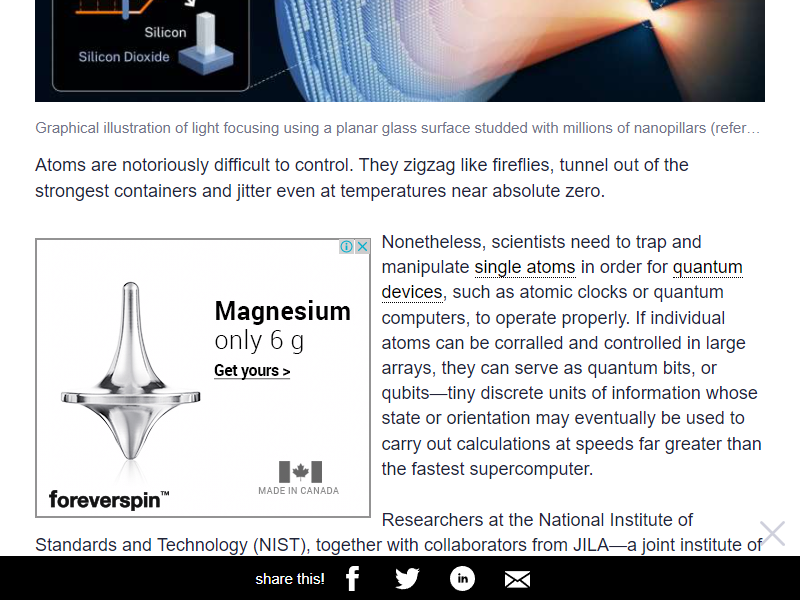
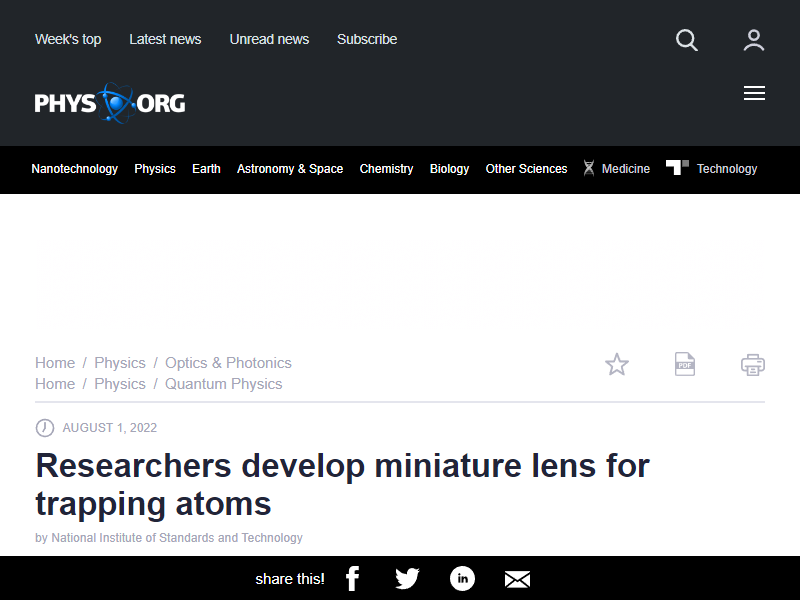
initial commit

diff --git a/src/ejercicio2.js b/src/ejercicio2.js
@@ -1,0 +1,59 @@
+"use strict";
+var __awaiter = (this && this.__awaiter) || function (thisArg, _arguments, P, generator) {
+    function adopt(value) { return value instanceof P ? value : new P(function (resolve) { resolve(value); }); }
+    return new (P || (P = Promise))(function (resolve, reject) {
+        function fulfilled(value) { try { step(generator.next(value)); } catch (e) { reject(e); } }
+        function rejected(value) { try { step(generator["throw"](value)); } catch (e) { reject(e); } }
+        function step(result) { result.done ? resolve(result.value) : adopt(result.value).then(fulfilled, rejected); }
+        step((generator = generator.apply(thisArg, _arguments || [])).next());
+    });
+};
+Object.defineProperty(exports, "__esModule", { value: true });
+const fs = require("fs");
+const puppeteer = require('puppeteer');
+const urls = ["https://phys.org/news/2022-08-miniature-lens-atoms.html&p=1"];
+const createJson = (obj) => {
+    fs.writeFile("output.json", JSON.stringify(obj, null, 2), "utf8", (error) => {
+        if (error)
+            throw error;
+        console.log("Sale todo bien");
+    });
+};
+const visitanyPage = (url) => __awaiter(void 0, void 0, void 0, function* () {
+    const browser = yield puppeteer.launch({ headless: false });
+    const page = yield browser.newPage();
+    yield page.goto("https://phys.org/news/2022-08-miniature-lens-atoms.html");
+    [];
+    const breadcrumbs = yield page.evaluate(() => {
+        var _a;
+        const result = (_a = document.querySelector('[aria-label="breadcrumb"]')) === null || _a === void 0 ? void 0 : _a.textContent;
+        return result;
+    });
+    const discos = yield page.evaluate(() => {
+        var _a, _b;
+        const result2 = [];
+        const discos = Array.from(document.querySelectorAll("ul.products-grid li.item"));
+        for (let disco of discos) {
+            const name = (_a = disco.querySelector("h5.product-name a")) === null || _a === void 0 ? void 0 : _a.textContent;
+            const price = (_b = disco.querySelector("span.price")) === null || _b === void 0 ? void 0 : _b.textContent;
+            result2.push({ name, price });
+        }
+        return result2;
+    });
+    const result = { breadcrumbs };
+    createJson(discos);
+    createJson(result);
+    const nextUrl = yield page.evaluate(() => {
+    });
+    yield browser.close();
+    return discos;
+});
+const crawlSite = () => __awaiter(void 0, void 0, void 0, function* () {
+    const result = [];
+    for (let url of urls) {
+        const discos = yield scraperPage(url);
+        result.push(...discos);
+    }
+    createJson(result);
+});
+crawlSite();

diff --git a/src/ejercicio2.ts b/src/ejercicio2.ts
@@ -1,0 +1,69 @@
+import * as fs from 'fs';
+const puppeteer = require('puppeteer');
+
+
+const urls = ["https://phys.org/news/2022-08-miniature-lens-atoms.html&p=1"];
+
+const createJson = (obj:{}): void =>{
+    fs.writeFile("output.json", JSON.stringify(obj, null, 2), "utf8", (error) => {
+        if(error) throw error;
+        console.log("Sale todo bien")
+    });
+};
+
+const visitanyPage = async (url: string): Promise<IDisco[]> => {
+    const browser = await puppeteer.launch({headless: false});
+    const page = await browser.newPage();
+    await page.goto("https://phys.org/news/2022-08-miniature-lens-atoms.html");
+
+
+    interface IDisco{
+        name: string;
+        price: string;
+    }[];
+
+
+    const breadcrumbs = await page.evaluate(()=>{
+        const result = document.querySelector('[aria-label="breadcrumb"]')?.textContent
+        return result;
+    })
+
+    const discos: IDisco[] = await page.evaluate(()=>{
+        const result2: IDisco[] = []
+        const discos = Array.from(
+            document.querySelectorAll("ul.products-grid li.item")
+        );
+
+        for(let disco of discos){
+            const name = disco.querySelector("h5.product-name a")?.textContent;
+            const price = disco.querySelector("span.price")?.textContent;
+            result2.push({ name, price});
+        }
+
+        return result2;
+    })
+
+    const result = {breadcrumbs}
+    createJson(discos)
+    createJson(result)
+
+    const nextUrl = await page.evaluate(()=>{
+
+    })
+
+    await browser.close();
+    return discos;
+};
+
+const crawlSite = async () => {
+    const result = [];
+
+    for (let url of urls) {
+        const discos = await scraperPage(url);
+        result.push(...discos);
+    }
+
+    createJson(result);
+};
+
+crawlSite();

diff --git a/src/index.js b/src/index.js
@@ -1,0 +1,21 @@
+"use strict";
+var __awaiter = (this && this.__awaiter) || function (thisArg, _arguments, P, generator) {
+    function adopt(value) { return value instanceof P ? value : new P(function (resolve) { resolve(value); }); }
+    return new (P || (P = Promise))(function (resolve, reject) {
+        function fulfilled(value) { try { step(generator.next(value)); } catch (e) { reject(e); } }
+        function rejected(value) { try { step(generator["throw"](value)); } catch (e) { reject(e); } }
+        function step(result) { result.done ? resolve(result.value) : adopt(result.value).then(fulfilled, rejected); }
+        step((generator = generator.apply(thisArg, _arguments || [])).next());
+    });
+};
+Object.defineProperty(exports, "__esModule", { value: true });
+const puppeteer = require("puppeteer");
+//const puppeteer = require('puppeteer');
+const visitanyPage = () => __awaiter(void 0, void 0, void 0, function* () {
+    const browser = yield puppeteer.launch({ headless: false });
+    const page = yield browser.newPage();
+    yield page.goto("https://phys.org/news/2022-08-miniature-lens-atoms.html");
+    yield page.screenshot({ path: "physPage.png" });
+    yield browser.close();
+});
+visitanyPage();

diff --git a/src/index.ts b/src/index.ts
@@ -1,4 +1,7 @@
-const puppeteer = require('puppeteer');
+"use strict";
+
+import * as puppeteer from "puppeteer"
+//const puppeteer = require('puppeteer');
 
 const visitanyPage = async () => {
     const browser = await puppeteer.launch({headless: false});
